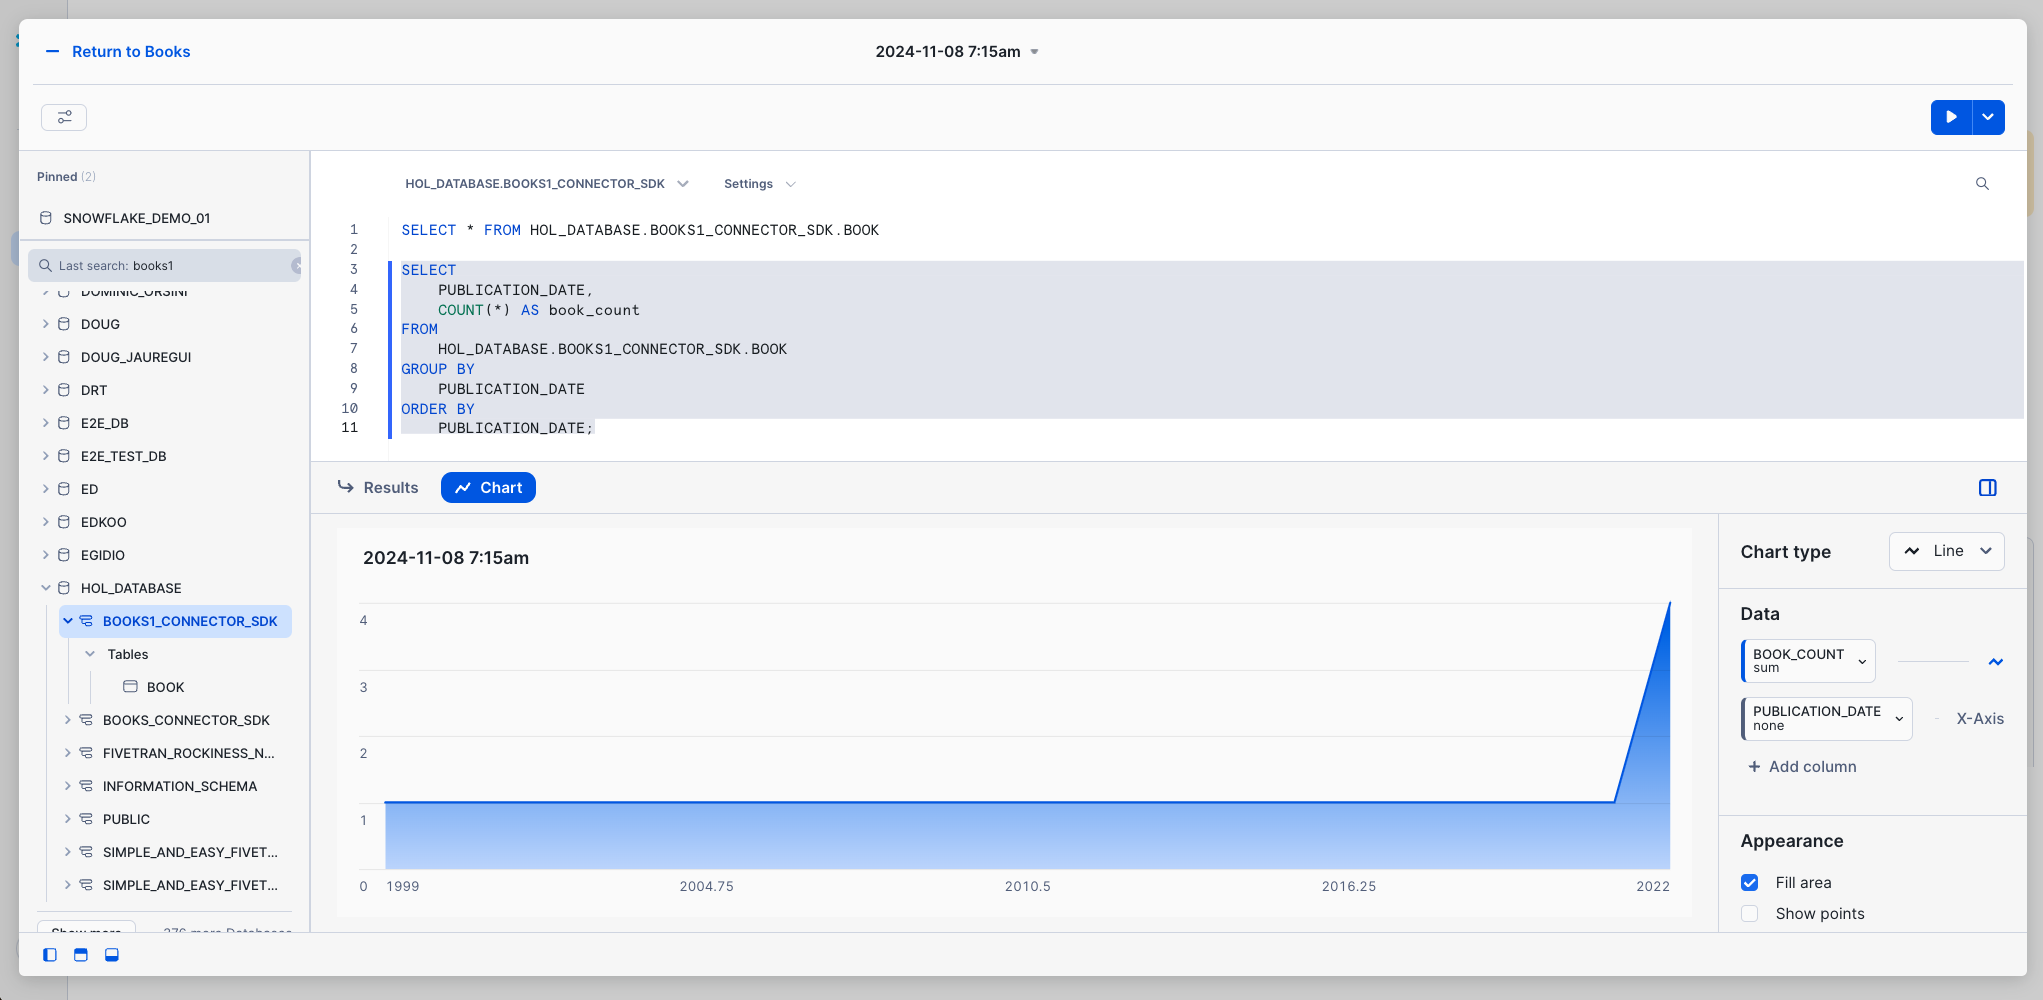
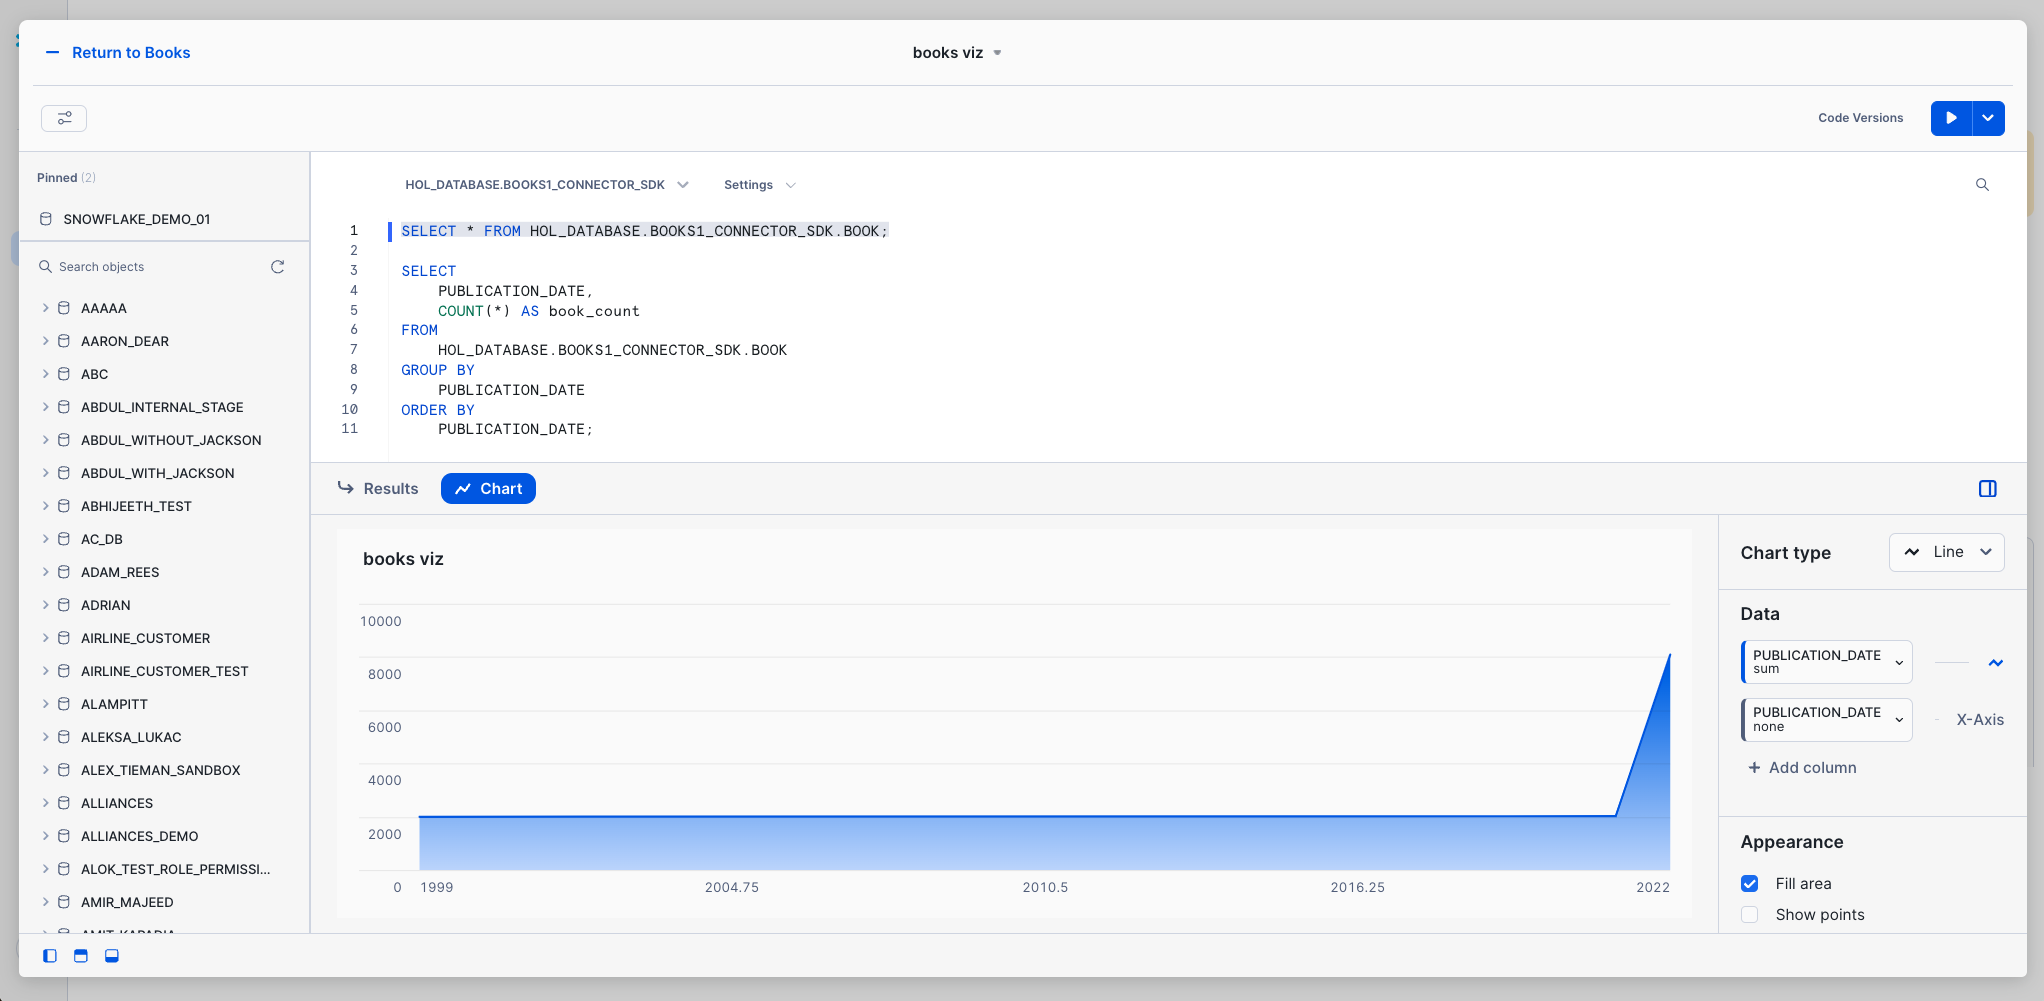
readme updates

diff --git a/examples/quick_start_examples/books/README.md b/examples/quick_start_examples/books/README.md
@@ -77,3 +77,21 @@ fivetran deploy --api-key <FIVETRAN-API-KEY> --destination <DESTINATION-NAME> --
 ### Fivetran Connector SDK: Snowflake Snowsight Dashboard with the new books data
 
 ![Snowflake Snowsight Dashboard Screenshot](./images/snowflake_snowsight_dashboard_books1_connector_sdk.png)
+
+### SQL query for all books (update the database and schema names)
+```
+SELECT * FROM HOL_DATABASE.BOOKS1_CONNECTOR_SDK.BOOK;
+```
+
+### SQL query for the books visualization (update the database and schema names)
+```
+SELECT 
+    PUBLICATION_DATE, 
+    COUNT(*) AS book_count
+FROM 
+    HOL_DATABASE.BOOKS1_CONNECTOR_SDK.BOOK
+GROUP BY 
+    PUBLICATION_DATE
+ORDER BY 
+    PUBLICATION_DATE;
+```
